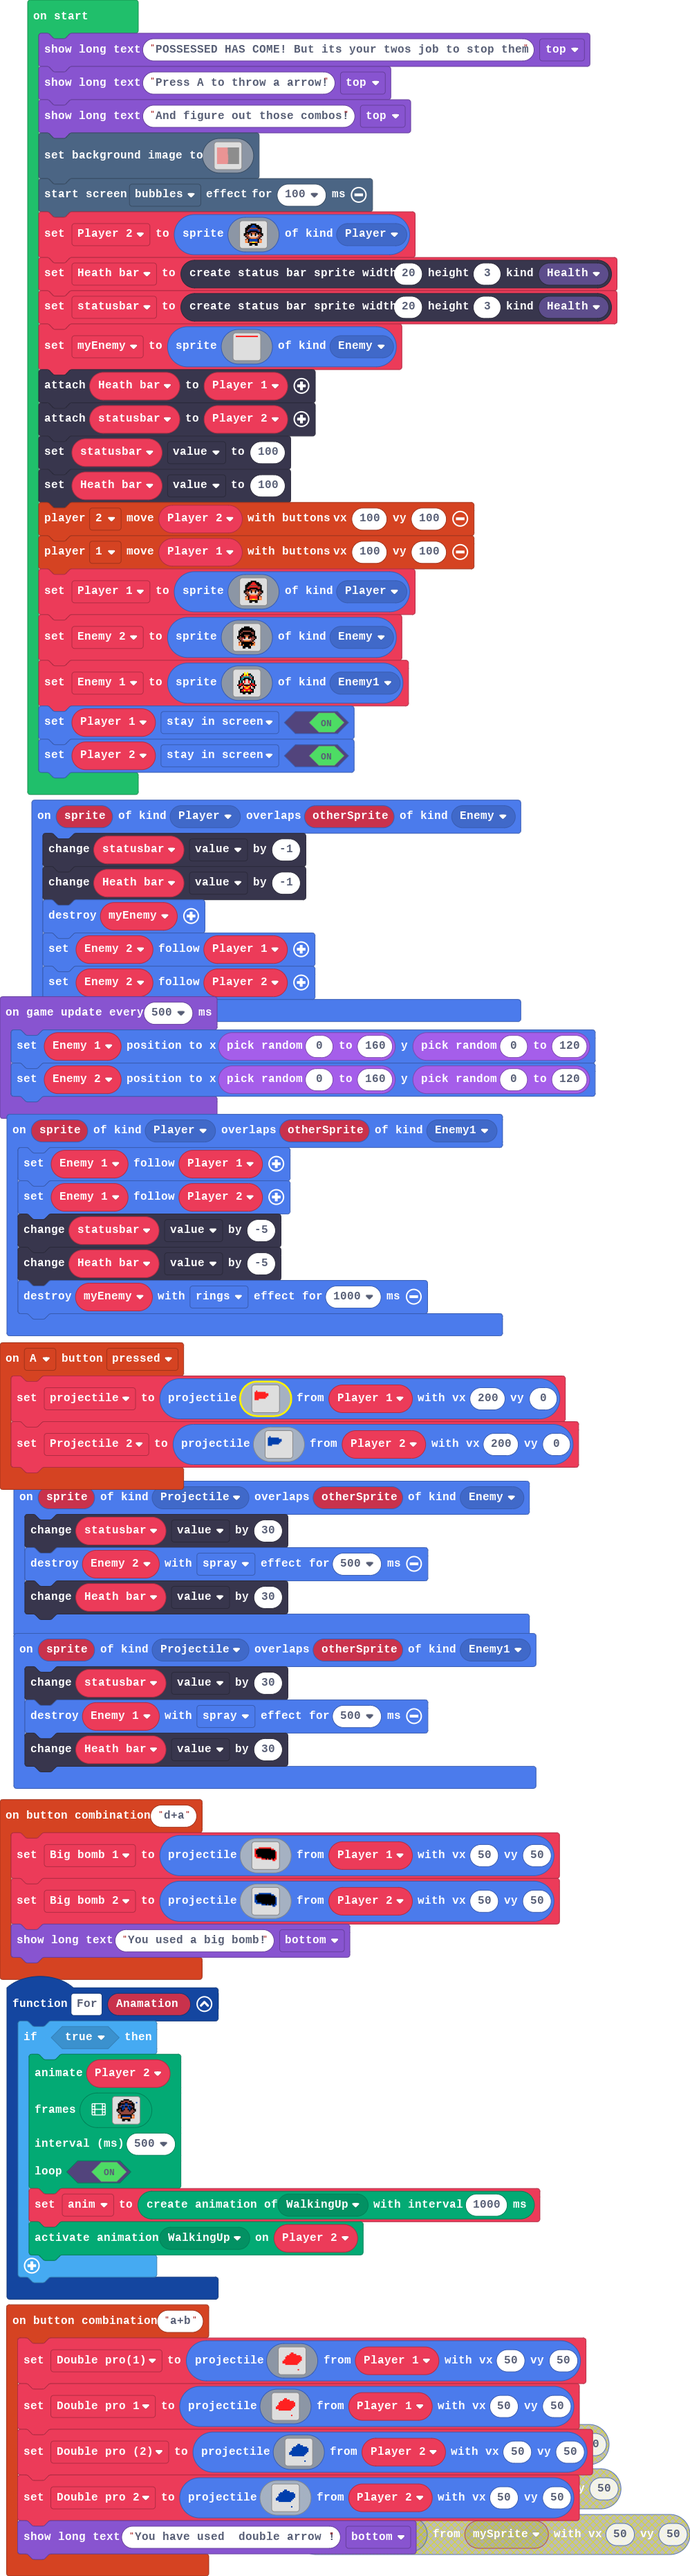
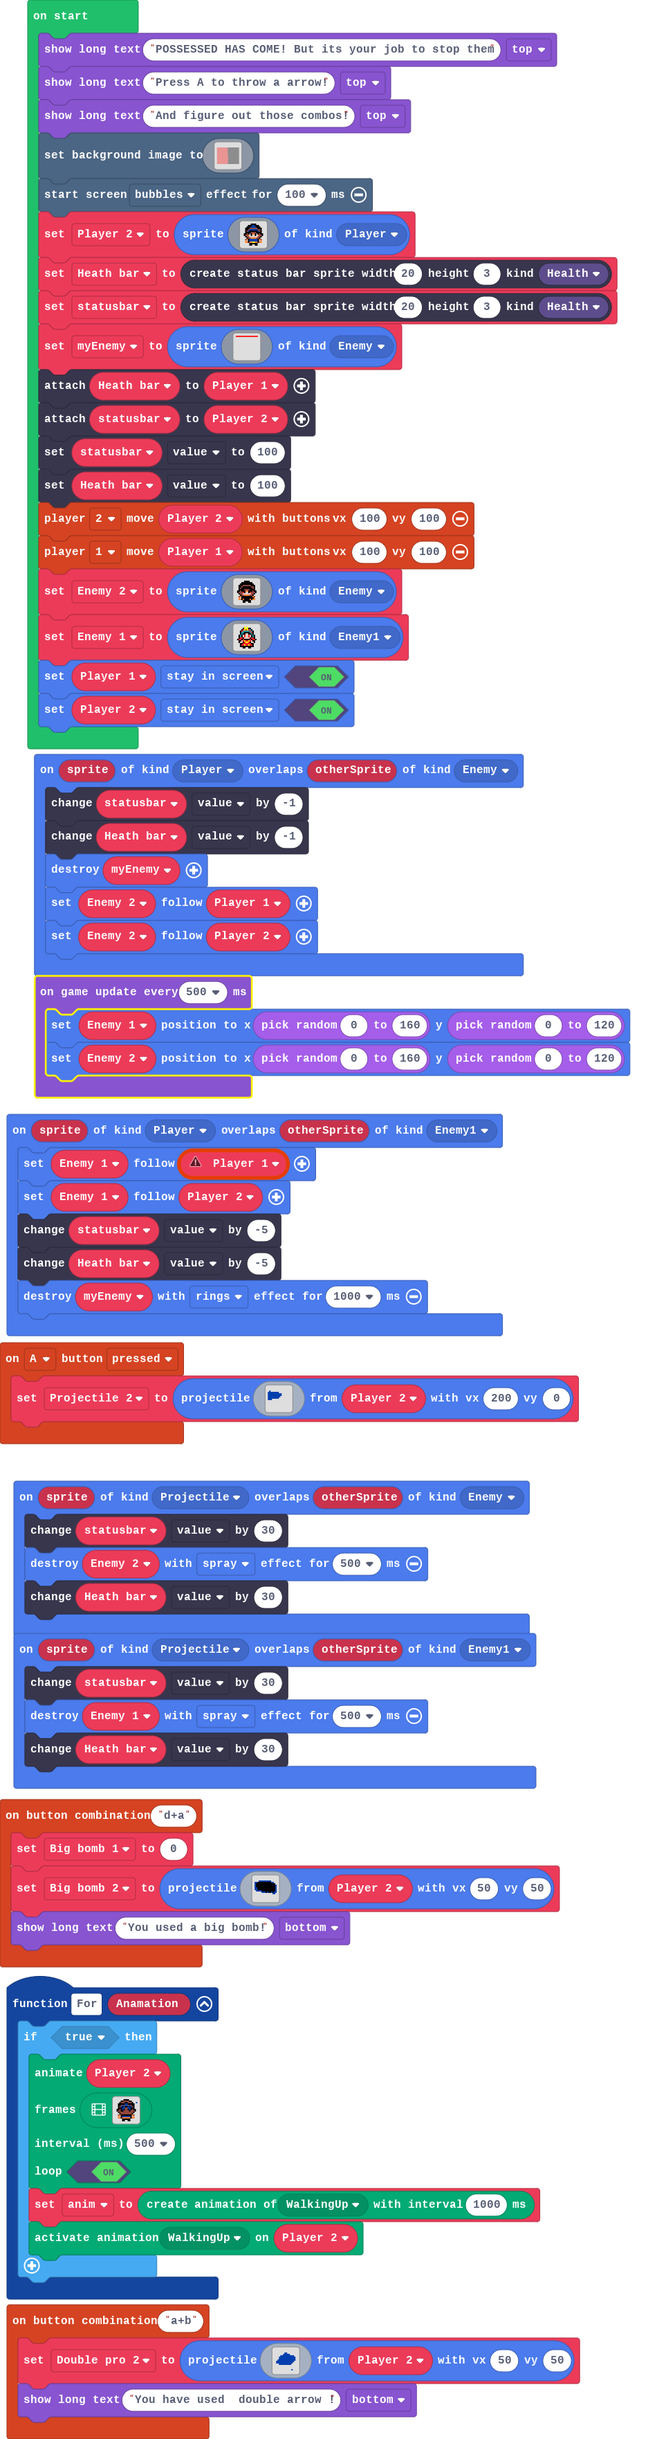
There was a lot of bugs with 2 player so it is now 1 player

diff --git a/main.ts b/main.ts
@@ -12,24 +12,7 @@ namespace StatusBarKind {
     export const Player = StatusBarKind.create()
 }
 controller.combos.attachCombo("d+a", function () {
-    Big_bomb_1 = sprites.createProjectileFromSprite(img`
-        . . . . . . . . . . . . . . . . 
-        . . . . . . . . . . . . . . . . 
-        . . . 2 2 2 2 2 2 2 2 2 . . . . 
-        2 2 f f f f f f f f f f 2 2 . . 
-        2 f f f f f f f f f f f f f f . 
-        2 f f f f f f f f f f f f f f 2 
-        2 f f f f f f f f f f f f f f 2 
-        2 2 f f f f f f f f f f f f f 2 
-        2 2 f f f f f f f f f f f f f 2 
-        . 2 2 2 2 f f f f f f f f f f 2 
-        . . . . . 2 2 2 f 2 f f 2 f 2 2 
-        . . . . . . . . . . . . . 2 2 . 
-        . . . . . . . . . . . . . . . . 
-        . . . . . . . . . . . . . . . . 
-        . . . . . . . . . . . . . . . . 
-        . . . . . . . . . . . . . . . . 
-        `, Player_1, 50, 50)
+    Big_bomb_1 = 0
     Big_bomb_2 = sprites.createProjectileFromSprite(img`
         . . . . . . . . . . . . . . . . 
         . . . . . . . . . . . . . . . . 
@@ -121,24 +104,6 @@ sprites.onOverlap(SpriteKind.Player, SpriteKind.Enemy1, function (sprite, otherS
     myEnemy.destroy(effects.rings, 1000)
 })
 controller.A.onEvent(ControllerButtonEvent.Pressed, function () {
-    projectile = sprites.createProjectileFromSprite(img`
-        . . . . . . . . . . . . . . . . 
-        . . . . . . . . . . . . . . . . 
-        . 2 . . . . . . . . . . . . . . 
-        2 2 2 2 2 2 2 2 . . . . . . . . 
-        2 2 2 2 2 2 2 2 2 2 . . . . . . 
-        2 2 2 2 2 2 2 2 2 2 . . . . . . 
-        2 2 2 2 2 2 2 2 2 . . . . . . . 
-        2 2 2 2 2 2 2 2 . . . . . . . . 
-        2 2 2 . . . . . . . . . . . . . 
-        . . . . . . . . . . . . . . . . 
-        . . . . . . . . . . . . . . . . 
-        . . . . . . . . . . . . . . . . 
-        . . . . . . . . . . . . . . . . 
-        . . . . . . . . . . . . . . . . 
-        . . . . . . . . . . . . . . . . 
-        . . . . . . . . . . . . . . . . 
-        `, Player_1, 200, 0)
     Projectile_2 = sprites.createProjectileFromSprite(img`
         . . . . . . . . . . . . . . . . 
         . . . . . . . . . . . . . . . . 
@@ -159,61 +124,7 @@ controller.A.onEvent(ControllerButtonEvent.Pressed, function () {
         `, Player_2, 200, 0)
 })
 controller.combos.attachCombo("a+b", function () {
-    Double_pro1 = sprites.createProjectileFromSprite(img`
-        . . . . . . . . . . . . . . . . 
-        . . . . . . . . . . . . . . . . 
-        . . . . . . . 2 2 . . . . . . . 
-        . . . . . . 2 2 2 2 2 . . . . . 
-        . . . . 2 2 2 2 2 2 2 2 2 2 . . 
-        . . . 2 2 2 2 2 2 2 2 2 2 2 2 . 
-        . . . 2 2 2 2 2 2 2 2 2 2 2 2 . 
-        . . 2 2 2 2 2 2 2 2 2 2 2 2 2 . 
-        . 2 2 2 2 2 2 2 2 2 2 2 2 2 . . 
-        . 2 2 2 2 2 2 2 2 2 2 2 2 . . . 
-        . . . 2 2 2 2 2 2 2 2 2 . . . . 
-        . . . . . . . . . . . . . . . . 
-        . . . . . . . . . . . . . . . . 
-        . . . . . . . . . . . . . . . . 
-        . . . . . . . . . . . . 2 . . . 
-        . . . . . . . . . . . . . . . . 
-        `, Player_1, 50, 50)
-    Double_pro_1 = sprites.createProjectileFromSprite(img`
-        . . . . . . . . . . . . . . . . 
-        . . . . . . . . . . . . . . . . 
-        . . . . . . . 2 2 . . . . . . . 
-        . . . . . . 2 2 2 2 2 . . . . . 
-        . . . . 2 2 2 2 2 2 2 2 2 2 . . 
-        . . . 2 2 2 2 2 2 2 2 2 2 2 2 . 
-        . . . 2 2 2 2 2 2 2 2 2 2 2 2 . 
-        . . 2 2 2 2 2 2 2 2 2 2 2 2 2 . 
-        . 2 2 2 2 2 2 2 2 2 2 2 2 2 . . 
-        . 2 2 2 2 2 2 2 2 2 2 2 2 . . . 
-        . . . 2 2 2 2 2 2 2 2 2 . . . . 
-        . . . . . . . . . . . . . . . . 
-        . . . . . . . . . . . . . . . . 
-        . . . . . . . . . . . . . . . . 
-        . . . . . . . . . . . . 2 . . . 
-        . . . . . . . . . . . . . . . . 
-        `, Player_1, 50, 50)
     Double_pro_2 = sprites.createProjectileFromSprite(img`
-        . . . . . . . . . . . . . . . . 
-        . . . . . . . . . . . . . . . . 
-        . . . . . . . 8 8 . . . . . . . 
-        . . . . . . 8 8 8 8 8 . . . . . 
-        . . . . 8 8 8 8 8 8 8 8 8 8 . . 
-        . . . 8 8 8 8 8 8 8 8 8 8 8 8 . 
-        . . . 8 8 8 8 8 8 8 8 8 8 8 8 . 
-        . . 8 8 8 8 8 8 8 8 8 8 8 8 8 . 
-        . 8 8 8 8 8 8 8 8 8 8 8 8 8 . . 
-        . 8 8 8 8 8 8 8 8 8 8 8 8 . . . 
-        . . . 8 8 8 8 8 8 8 8 8 . . . . 
-        . . . . . . . . . . . . . . . . 
-        . . . . . . . . . . . . . . . . 
-        . . . . . . . . . . . . . . . . 
-        . . . . . . . . . . . . 8 . . . 
-        . . . . . . . . . . . . . . . . 
-        `, Player_2, 50, 50)
-    Double_pro_22 = sprites.createProjectileFromSprite(img`
         . . . . . . . . . . . . . . . . 
         . . . . . . . . . . . . . . . . 
         . . . . . . . 8 8 . . . . . . . 
@@ -250,15 +161,11 @@ sprites.onOverlap(SpriteKind.Player, SpriteKind.Enemy, function (sprite, otherSp
     Enemy_2.follow(Player_1)
     Enemy_2.follow(Player_2)
 })
-let Double_pro_22: Sprite = null
 let Double_pro_2: Sprite = null
-let Double_pro_1: Sprite = null
-let Double_pro1: Sprite = null
 let Projectile_2: Sprite = null
-let projectile: Sprite = null
 let anim: animation.Animation = null
 let Big_bomb_2: Sprite = null
-let Big_bomb_1: Sprite = null
+let Big_bomb_1 = 0
 let Enemy_1: Sprite = null
 let Enemy_2: Sprite = null
 let Player_1: Sprite = null
@@ -266,7 +173,7 @@ let myEnemy: Sprite = null
 let statusbar: StatusBarSprite = null
 let Heath_bar: StatusBarSprite = null
 let Player_2: Sprite = null
-game.showLongText("POSSESSED HAS COME! But its your twos job to stop them ", DialogLayout.Top)
+game.showLongText("POSSESSED HAS COME! But its your job to stop them ", DialogLayout.Top)
 game.showLongText("Press A to throw a arrow!", DialogLayout.Top)
 game.showLongText("And figure out those combos!", DialogLayout.Top)
 scene.setBackgroundImage(img`
@@ -436,24 +343,6 @@ statusbar.value = 100
 Heath_bar.value = 100
 controller.player2.moveSprite(Player_2, 100, 100)
 controller.player1.moveSprite(Player_1, 100, 100)
-Player_1 = sprites.create(img`
-    . . . . . . f f f f . . . . . . 
-    . . . . f f f 2 2 f f f . . . . 
-    . . . f f f 2 2 2 2 f f f . . . 
-    . . f f f e e e e e e f f f . . 
-    . . f f e 2 2 2 2 2 2 e e f . . 
-    . . f e 2 f f f f f f 2 e f . . 
-    . . f f f f e e e e f f f f . . 
-    . f f e f b f 4 4 f b f e f f . 
-    . f e e 4 1 f d d f 1 4 e e f . 
-    . . f e e d d d d d d e e f . . 
-    . . . f e e 4 4 4 4 e e f . . . 
-    . . e 4 f 2 2 2 2 2 2 f 4 e . . 
-    . . 4 d f 2 2 2 2 2 2 f d 4 . . 
-    . . 4 4 f 4 4 5 5 4 4 f 4 4 . . 
-    . . . . . f f f f f f . . . . . 
-    . . . . . f f . . f f . . . . . 
-    `, SpriteKind.Player)
 Enemy_2 = sprites.create(img`
     . . . . . . f f f f . . . . . . 
     . . . . f f f f f f f f . . . . 
